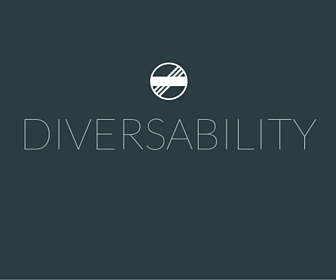
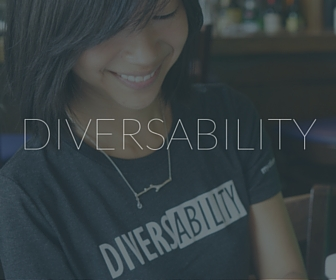
Added new portfolo images

diff --git a/index.html b/index.html
@@ -9,7 +9,7 @@
     <meta name="description" content="">
     <meta name="author" content="">
 
-    <title>Tiffany Yu | Web Developer</title>
+    <title>Tiffany Yu | Former Goldman Sachs Investment Banker Turned Web Developer</title>
     <link rel="icon" href="includes/img/ty-logo.png">
     <!-- Bootstrap Core CSS -->
     <link href="includes/css/bootstrap.min.css" rel="stylesheet">
@@ -78,7 +78,7 @@
                 <div class="col-lg-12">
                     <div class="intro-message">
                         <h1>Tiffany Yu</h1>
-                        <h3>Founder of Diversability // Web Developer</h3>
+                        <h3>Founder of Diversability // Former Goldman Sachs Investment Banker Turned Web Developer</h3>
                         <hr class="intro-divider">
                         <ul class="list-inline intro-social-buttons">
                             <li>
@@ -374,7 +374,7 @@
                             <p>We have been featured in the Guardian, Psychology Today, and others. We were excited to be a part of award-winning photographer Rick Guidotti's Positive Exposure Pop-Up Center in New York City in 2016. We were also honored to receive the 2015 Bell Greve Memorial Award from the National Rehabilitation Association. </p>
                             <ul class="list-inline item-details">
                                 <li>Website:
-                                    <strong><a href="http://mydiversability.com">Diversability</a>
+                                    <strong><a href="http://mydiversability.com" target="_blank">Diversability</a>
                                     </strong>
                                 </li>
                                 <li>Date:
